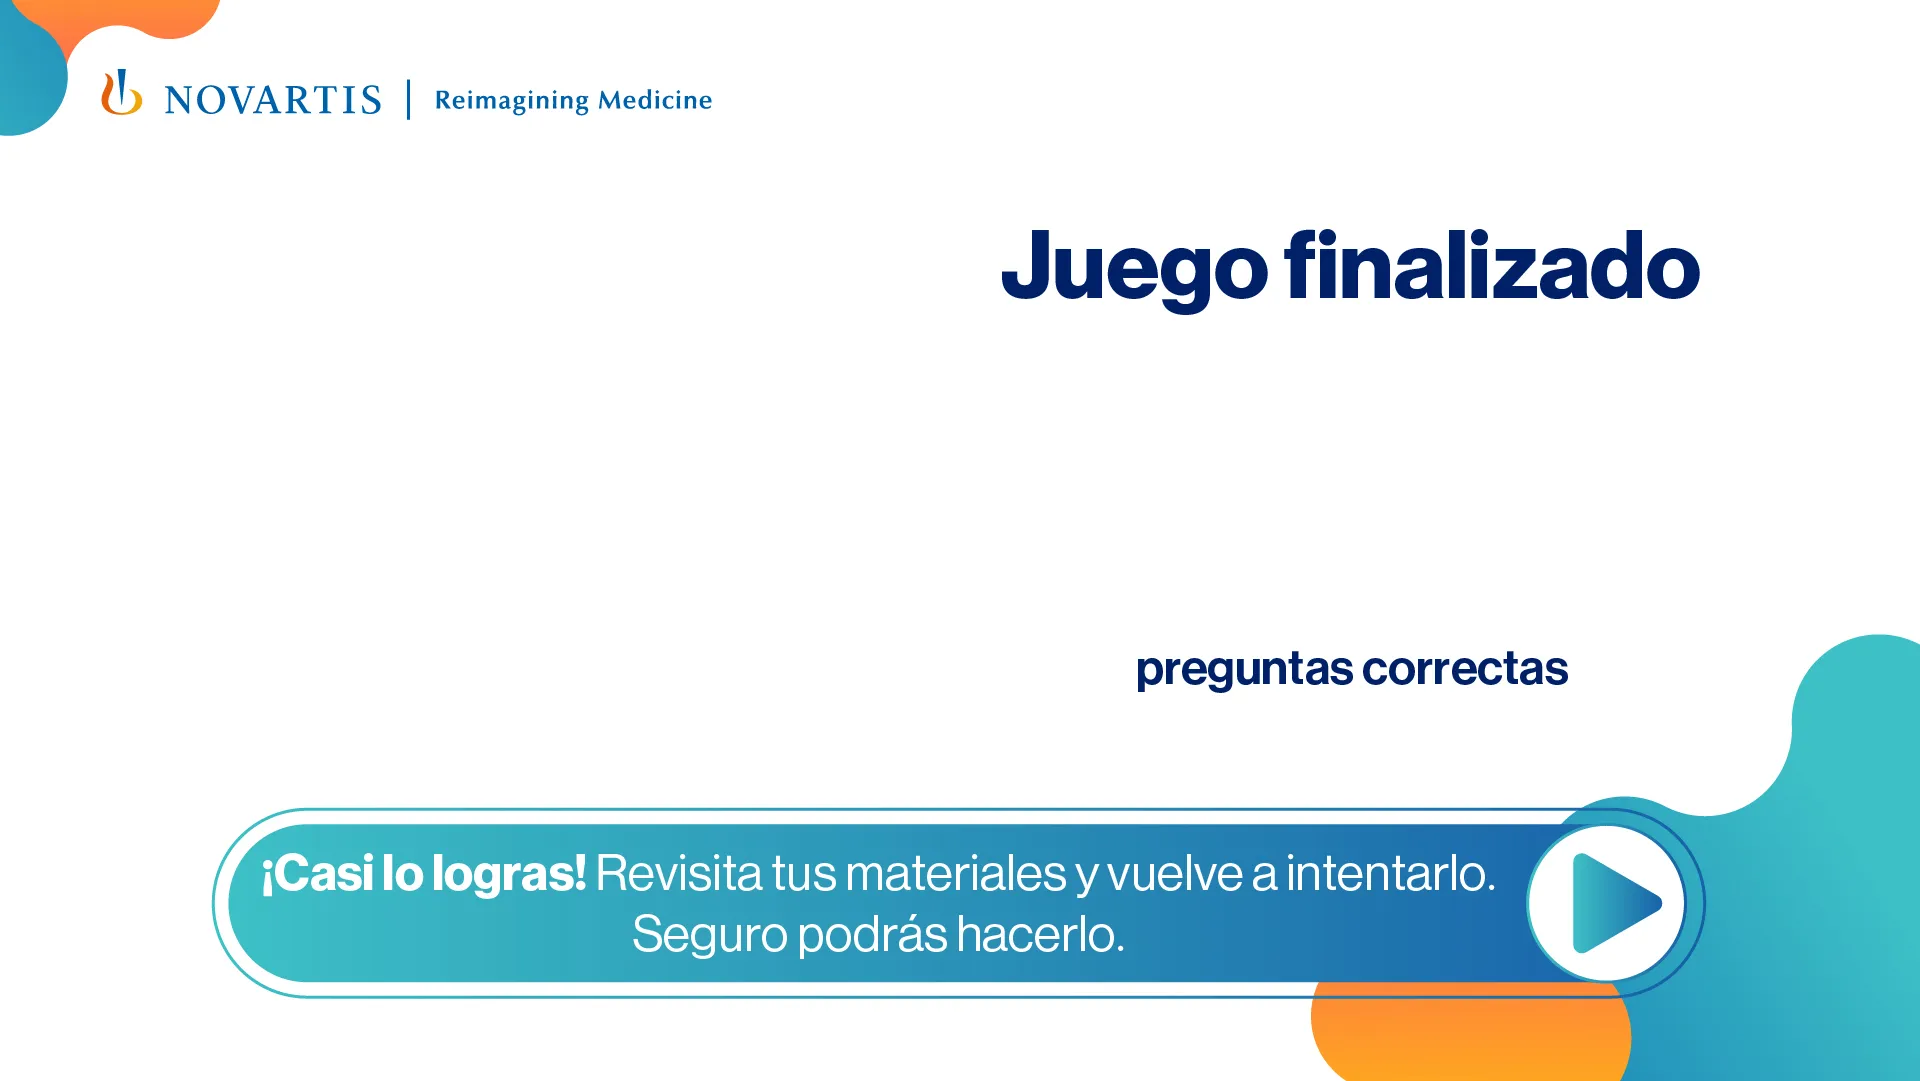
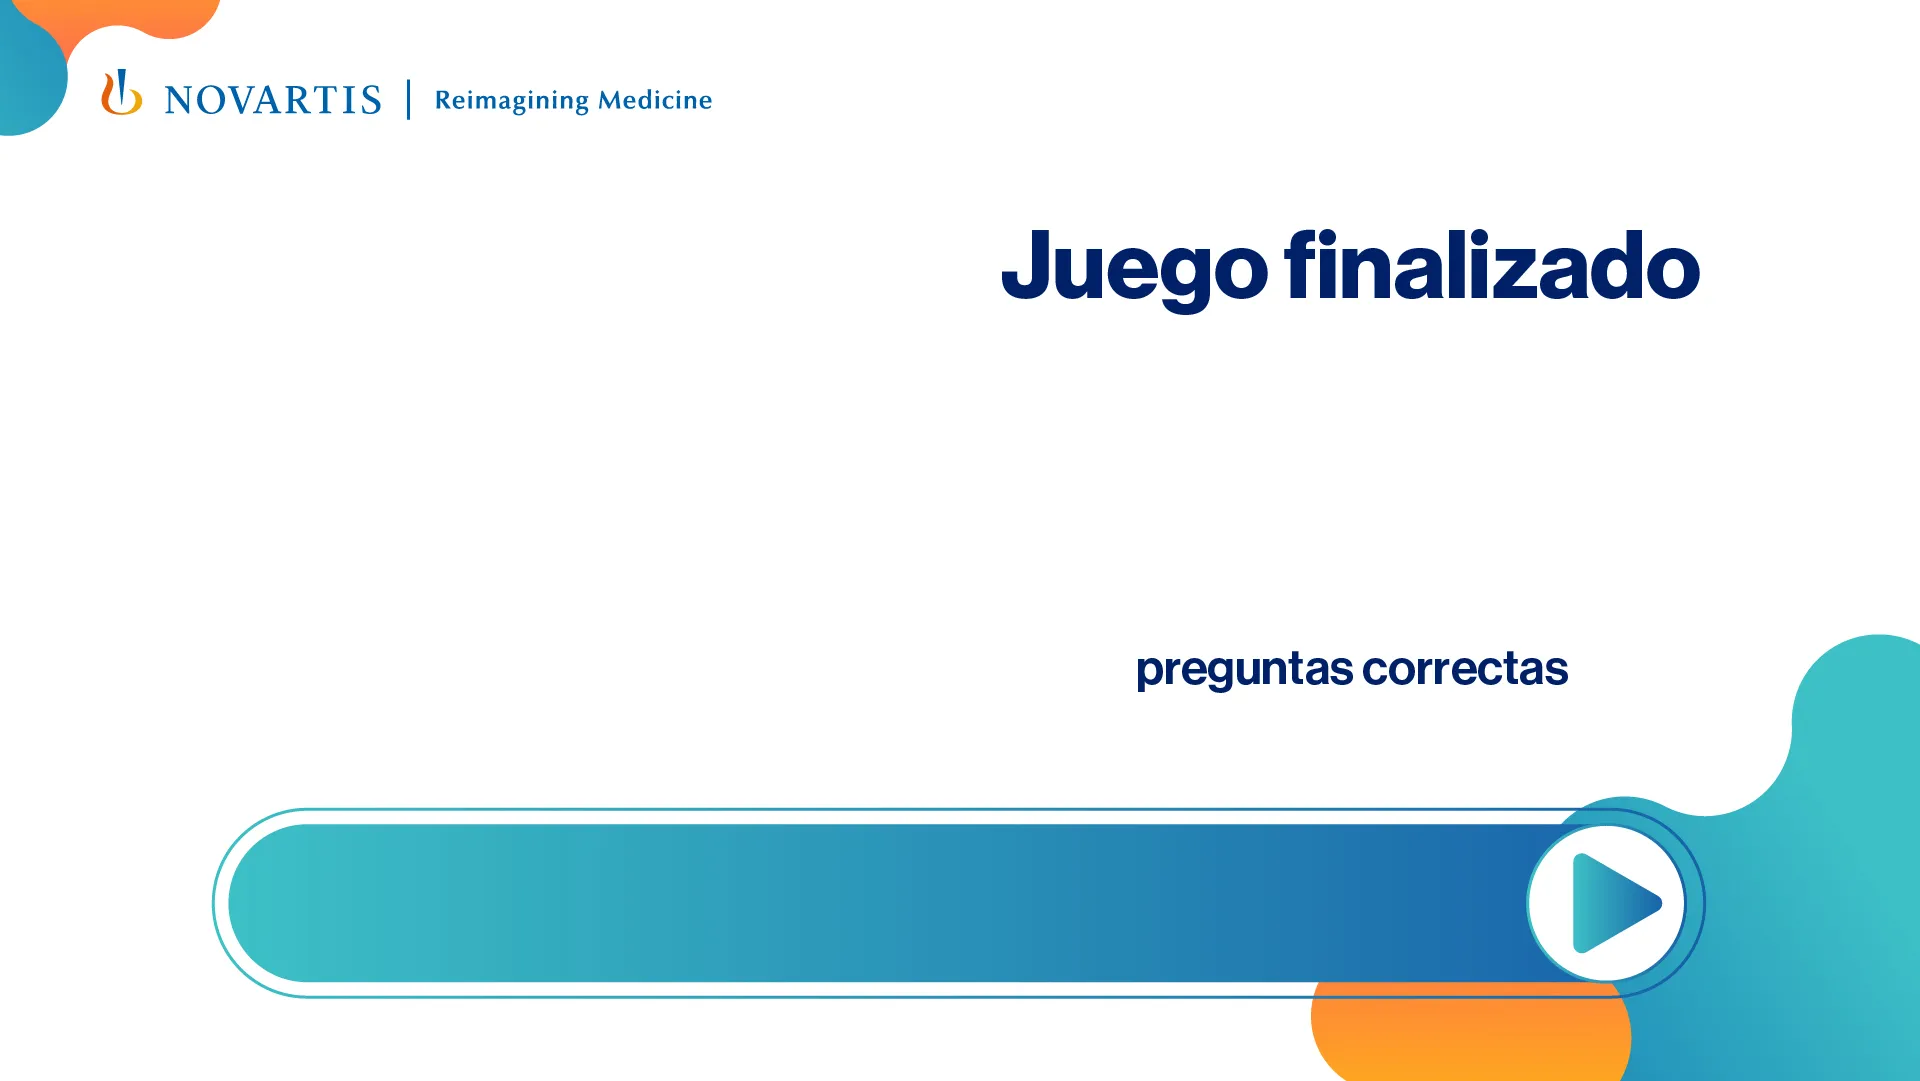
juego reversa

Changed region(s): [[0.125, 0.7937, 0.7812, 0.8242], [0.3125, 0.8548, 0.5938, 0.8853]]

diff --git a/js/scripts201.js b/js/scripts201.js
@@ -3,10 +3,7 @@ $(document).ready(function () {
 	$('.openModal').on('click', () => {
 		const isAnswered = localStorage.getItem('carta1')
 
-		if (isAnswered && isAnswered === 'correcto') {
-			$('.openModal').css('transform', 'rotateY(180deg)')
-			$('.cursores').css('display', 'block')
-		} else if (!isAnswered) {
+		if (!isAnswered || isAnswered === '') {
 			sonidobuttom()
 			$('.modal').css('display', 'block')
 			$('.cursores').css('display', 'none')
@@ -24,6 +21,8 @@ $(document).ready(function () {
 		$('.openModal').show()
 		$('.car-pop1').hide()
 		$('.openModal').css('transform', 'rotateY(0deg)')
+
+		handleValidateCriteriasFinished()
 	})
 
 	// cerra modal
@@ -35,10 +34,7 @@ $(document).ready(function () {
 	$('.openModal1').on('click', () => {
 		const isAnswered = localStorage.getItem('carta2')
 
-		if (isAnswered && isAnswered === 'correcto') {
-			$('.openModal1').css('transform', 'rotateY(180deg)')
-			$('.cursores1').css('display', 'block')
-		} else if (!isAnswered) {
+		if (!isAnswered || isAnswered === '') {
 			sonidobuttom()
 			$('.modal1').css('display', 'block')
 			$('.cursores1').css('display', 'none')
@@ -58,6 +54,7 @@ $(document).ready(function () {
 		$('.car-pop2').hide()
 		$('.openModal4').show()
 		$('.openModal1').css('transform', 'rotateY(0deg)')
+		handleValidateCriteriasFinished()
 	})
 	// cerra modal
 	$('.closeModal1').on('click', () => {
@@ -68,10 +65,7 @@ $(document).ready(function () {
 	$('.openModal2').on('click', () => {
 		const isAnswered = localStorage.getItem('carta3')
 
-		if (isAnswered && isAnswered === 'correcto') {
-			$('.openModal2').css('transform', 'rotateY(180deg)')
-			$('.cursores2').css('display', 'block')
-		} else if (!isAnswered) {
+		if (!isAnswered || isAnswered === '') {
 			sonidobuttom()
 			$('.modal2').css('display', 'block')
 			$('.cursores2').css('display', 'none')
@@ -90,6 +84,7 @@ $(document).ready(function () {
 		$('.openModal2').show()
 		$('.car-pop3').hide()
 		$('.openModal2').css('transform', 'rotateY(0deg)')
+		handleValidateCriteriasFinished()
 	})
 
 	// cerra modal
@@ -101,10 +96,7 @@ $(document).ready(function () {
 	$('.openModal3').on('click', () => {
 		const isAnswered = localStorage.getItem('carta4')
 
-		if (isAnswered && isAnswered === 'correcto') {
-			$('.openModal3').css('transform', 'rotateY(180deg)')
-			$('.cursores3').css('display', 'block')
-		} else if (!isAnswered) {
+		if (!isAnswered || isAnswered === '') {
 			sonidobuttom()
 			$('.modal3').css('display', 'block')
 			$('.cursores3').css('display', 'none')
@@ -123,6 +115,7 @@ $(document).ready(function () {
 		$('.openModal3').show()
 		$('.car-pop4').hide()
 		$('.openModal3').css('transform', 'rotateY(0deg)')
+		handleValidateCriteriasFinished()
 	})
 
 	// cerra modal
@@ -134,10 +127,7 @@ $(document).ready(function () {
 	$('.openModal4').on('click', () => {
 		const isAnswered = localStorage.getItem('carta5')
 
-		if (isAnswered && isAnswered === 'correcto') {
-			$('.openModal4').css('transform', 'rotateY(180deg)')
-			$('.cursores4').css('display', 'block')
-		} else if (!isAnswered) {
+		if (!isAnswered || isAnswered === '') {
 			sonidobuttom()
 			$('.modal4').css('display', 'block')
 			$('.cursores4').css('display', 'none')
@@ -156,6 +146,7 @@ $(document).ready(function () {
 		$('.openModal4').show()
 		$('.car-pop5').hide()
 		$('.openModal4').css('transform', 'rotateY(0deg)')
+		handleValidateCriteriasFinished()
 	})
 	// cerra modal
 	$('.closeModal4').on('click', () => {
@@ -166,10 +157,7 @@ $(document).ready(function () {
 	$('.openModal5').on('click', () => {
 		const isAnswered = localStorage.getItem('carta6')
 
-		if (isAnswered && isAnswered === 'correcto') {
-			$('.openModal5').css('transform', 'rotateY(180deg)')
-			$('.cursores5').css('display', 'block')
-		} else if (!isAnswered) {
+		if (!isAnswered || isAnswered === '') {
 			sonidobuttom()
 			$('.modal5').css('display', 'block')
 			$('.cursores5').css('display', 'none')
@@ -188,6 +176,7 @@ $(document).ready(function () {
 		$('.openModal5').show()
 		$('.car-pop6').hide()
 		$('.openModal5').css('transform', 'rotateY(0deg)')
+		handleValidateCriteriasFinished()
 	})
 
 	// cerra modal
@@ -220,7 +209,15 @@ $(document).ready(function () {
 		setTimeout(() => {
 			$('.modal').css('display', 'none')
 			$('.cora-nara1').css('display', 'block')
-			handleValidateCriteriasFinished()
+
+			setTimeout(() => {
+				sonidocarta()
+				$('.openModal').css('transform', 'rotateY(180deg)')
+
+				setTimeout(() => {
+					$('.car-pop1').fadeIn(1300)
+				}, 1000)
+			}, 1000)
 		}, 2000)
 	})
 
@@ -262,7 +259,15 @@ $(document).ready(function () {
 		setTimeout(() => {
 			$('.modal1').css('display', 'none')
 			$('.cora-nara2').css('display', 'block')
-			handleValidateCriteriasFinished()
+
+			setTimeout(() => {
+				sonidocarta()
+				$('.openModal1').css('transform', 'rotateY(180deg)')
+
+				setTimeout(() => {
+					$('.car-pop2').fadeIn(1300)
+				}, 1000)
+			}, 1000)
 		}, 2000)
 	})
 
@@ -304,7 +309,14 @@ $(document).ready(function () {
 		setTimeout(() => {
 			$('.modal2').css('display', 'none')
 			$('.cora-nara3').css('display', 'block')
-			handleValidateCriteriasFinished()
+			setTimeout(() => {
+				sonidocarta()
+				$('.openModal2').css('transform', 'rotateY(180deg)')
+
+				setTimeout(() => {
+					$('.car-pop3').fadeIn(1300)
+				}, 1000)
+			}, 1000)
 		}, 2000)
 	})
 
@@ -345,7 +357,14 @@ $(document).ready(function () {
 		setTimeout(() => {
 			$('.modal3').css('display', 'none')
 			$('.cora-nara4').css('display', 'block')
-			handleValidateCriteriasFinished()
+			setTimeout(() => {
+				sonidocarta()
+				$('.openModal3').css('transform', 'rotateY(180deg)')
+
+				setTimeout(() => {
+					$('.car-pop4').fadeIn(1300)
+				}, 1000)
+			}, 1000)
 		}, 2000)
 	})
 
@@ -387,7 +406,14 @@ $(document).ready(function () {
 		setTimeout(() => {
 			$('.modal4').css('display', 'none')
 			$('.cora-nara5').css('display', 'block')
-			handleValidateCriteriasFinished()
+			setTimeout(() => {
+				sonidocarta()
+				$('.openModal4').css('transform', 'rotateY(180deg)')
+
+				setTimeout(() => {
+					$('.car-pop5').fadeIn(1300)
+				}, 1000)
+			}, 1000)
 		}, 2000)
 	})
 
@@ -429,7 +455,14 @@ $(document).ready(function () {
 		setTimeout(() => {
 			$('.modal5').css('display', 'none')
 			$('.cora-nara6').css('display', 'block')
-			handleValidateCriteriasFinished()
+			setTimeout(() => {
+				sonidocarta()
+				$('.openModal5').css('transform', 'rotateY(180deg)')
+
+				setTimeout(() => {
+					$('.car-pop6').fadeIn(1300)
+				}, 1000)
+			}, 1000)
 		}, 2000)
 	})
 

diff --git a/index201.html b/index201.html
@@ -1485,14 +1485,14 @@
 								<tspan class="cls-11-rest" x="0" y="0">
 									Angioplastia y colocación de un
 								</tspan>
-								<tspan class="cls-2-rest" x="487.48" y="0">
+								<tspan class="cls-2-rest" x="500.48" y="0">
 									stent
 								</tspan>
 								<tspan
 									class="cls-1-rest"
 									x="564.29"
 									y="0"></tspan>
-								<tspan class="cls-3-rest" x="564.29" y="0">
+								<tspan class="cls-3-rest" x="577.29" y="0">
 									.
 								</tspan>
 							</text>
@@ -1565,7 +1565,7 @@
 								transform="translate(968.45 72.74)">
 								<tspan
 									class="cls-12-rest"
-									x="0"
+									x="-60"
 									y="0"
 									xml:space="preserve">
 									Endarterectomía

diff --git a/css/styles202.css b/css/styles202.css
@@ -132,6 +132,32 @@ body {
     top: 33%;
 }
 
+.text1{
+	position: absolute;
+    width: 75%;
+    /* height: 10%; */
+    left: 9%;
+    top: 77.6%;
+}
+
+.text1 img {
+	width: 100%;
+	height: 100%;
+}
+
+.text2{
+	position: absolute;
+    width: 67%;
+    /* height: 10%; */
+    left: 13.4%;
+    top: 78.1%;
+}
+
+.text2 img {
+	width: 100%;
+	height: 100%;
+}
+
 /* Responsive */
 @media (max-width: 1365px) and (min-height: 768px) {
 	.container {

diff --git a/js/scripts202.js b/js/scripts202.js
@@ -18,7 +18,12 @@ const handleGetTotal = () => {
 const handleSelectCards = () => {
 	const total = handleGetTotal()
 
-	console.log(document.getElementById('value-points'))
+	if(total < 5){
+		document.querySelector('.text2').style.display = 'block'
+	} else {
+		document.querySelector('.text1').style.display = 'block'
+
+	}
 
 	document.getElementById('value-points').textContent = total.toString()
 

diff --git a/index202.html b/index202.html
@@ -41,6 +41,14 @@
 				<img src="./imagenes/j-6.png" alt="" />
 			</div>
 
+			<div class="text1" style="display: none;">
+				<img src="./imagenes/text1.png" alt="">
+			</div>
+
+			<div class="text2" style="display: none;">
+				<img src="./imagenes/text2.png" alt="">
+			</div>
+
 			<!-- Puntajes -->
 			<div class="puntage">
 				<svg

diff --git a/index206.html b/index206.html
@@ -22,7 +22,7 @@
 			<a href="./index205.html" class="boton-next"></a>
 
 			<a
-				href="./imagenes/"
+				href="https://eml.com.co/entresto/UP-R_S3-AgendaResumenSybrava_16-08-24_CP 2.pdf"
 				target="_blank"
 				class="dowload">
 			</a>

diff --git a/js/sonidos.js b/js/sonidos.js
@@ -12,3 +12,8 @@ function sonidobuttom() {
 	let audio = new Audio('imagenes/sonido/sonido-carta.mp3')
 	audio.play()
 }
+
+function sonidocarta() {
+	let audio = new Audio('imagenes/sonido/carta-reversa.mp3')
+	audio.play()
+}
